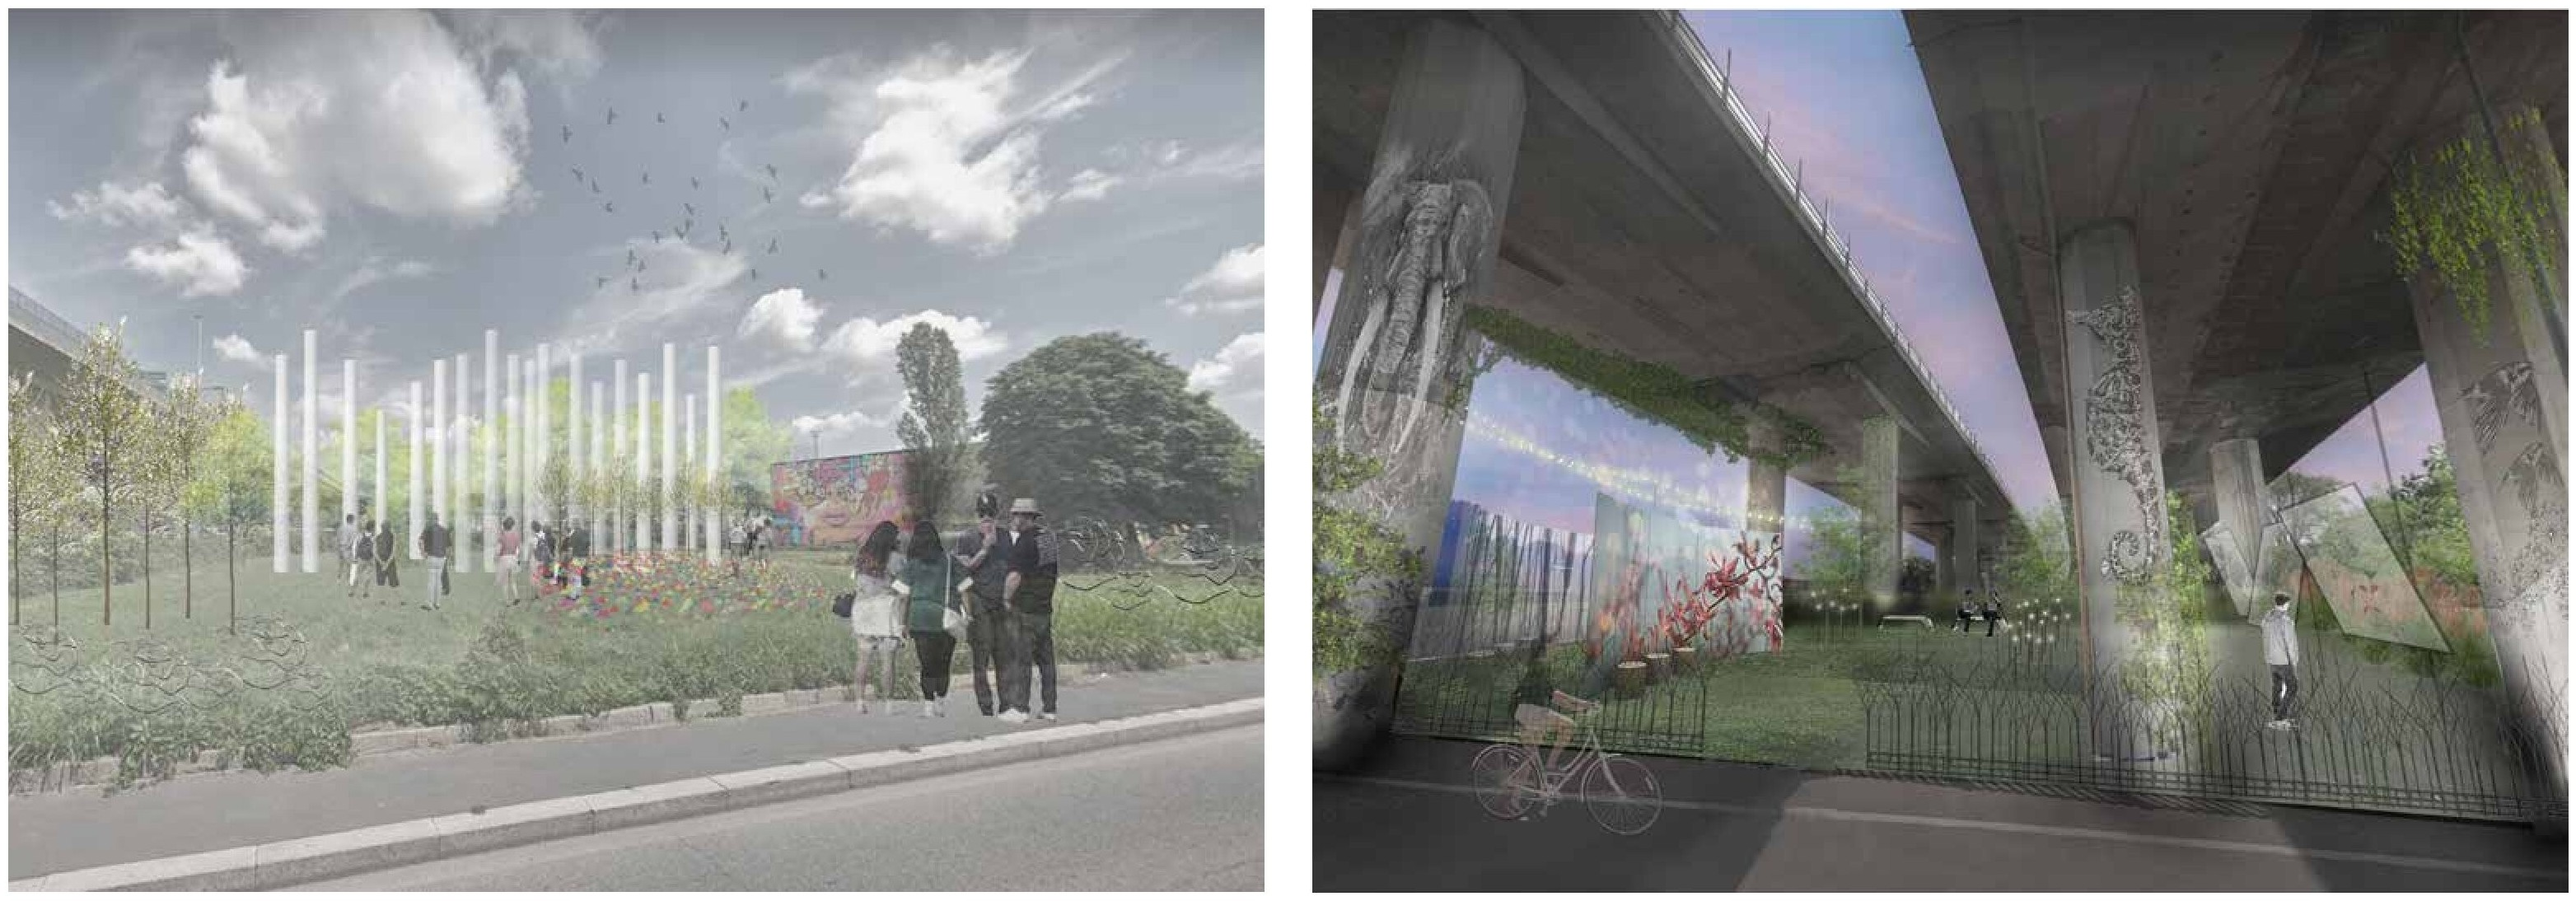
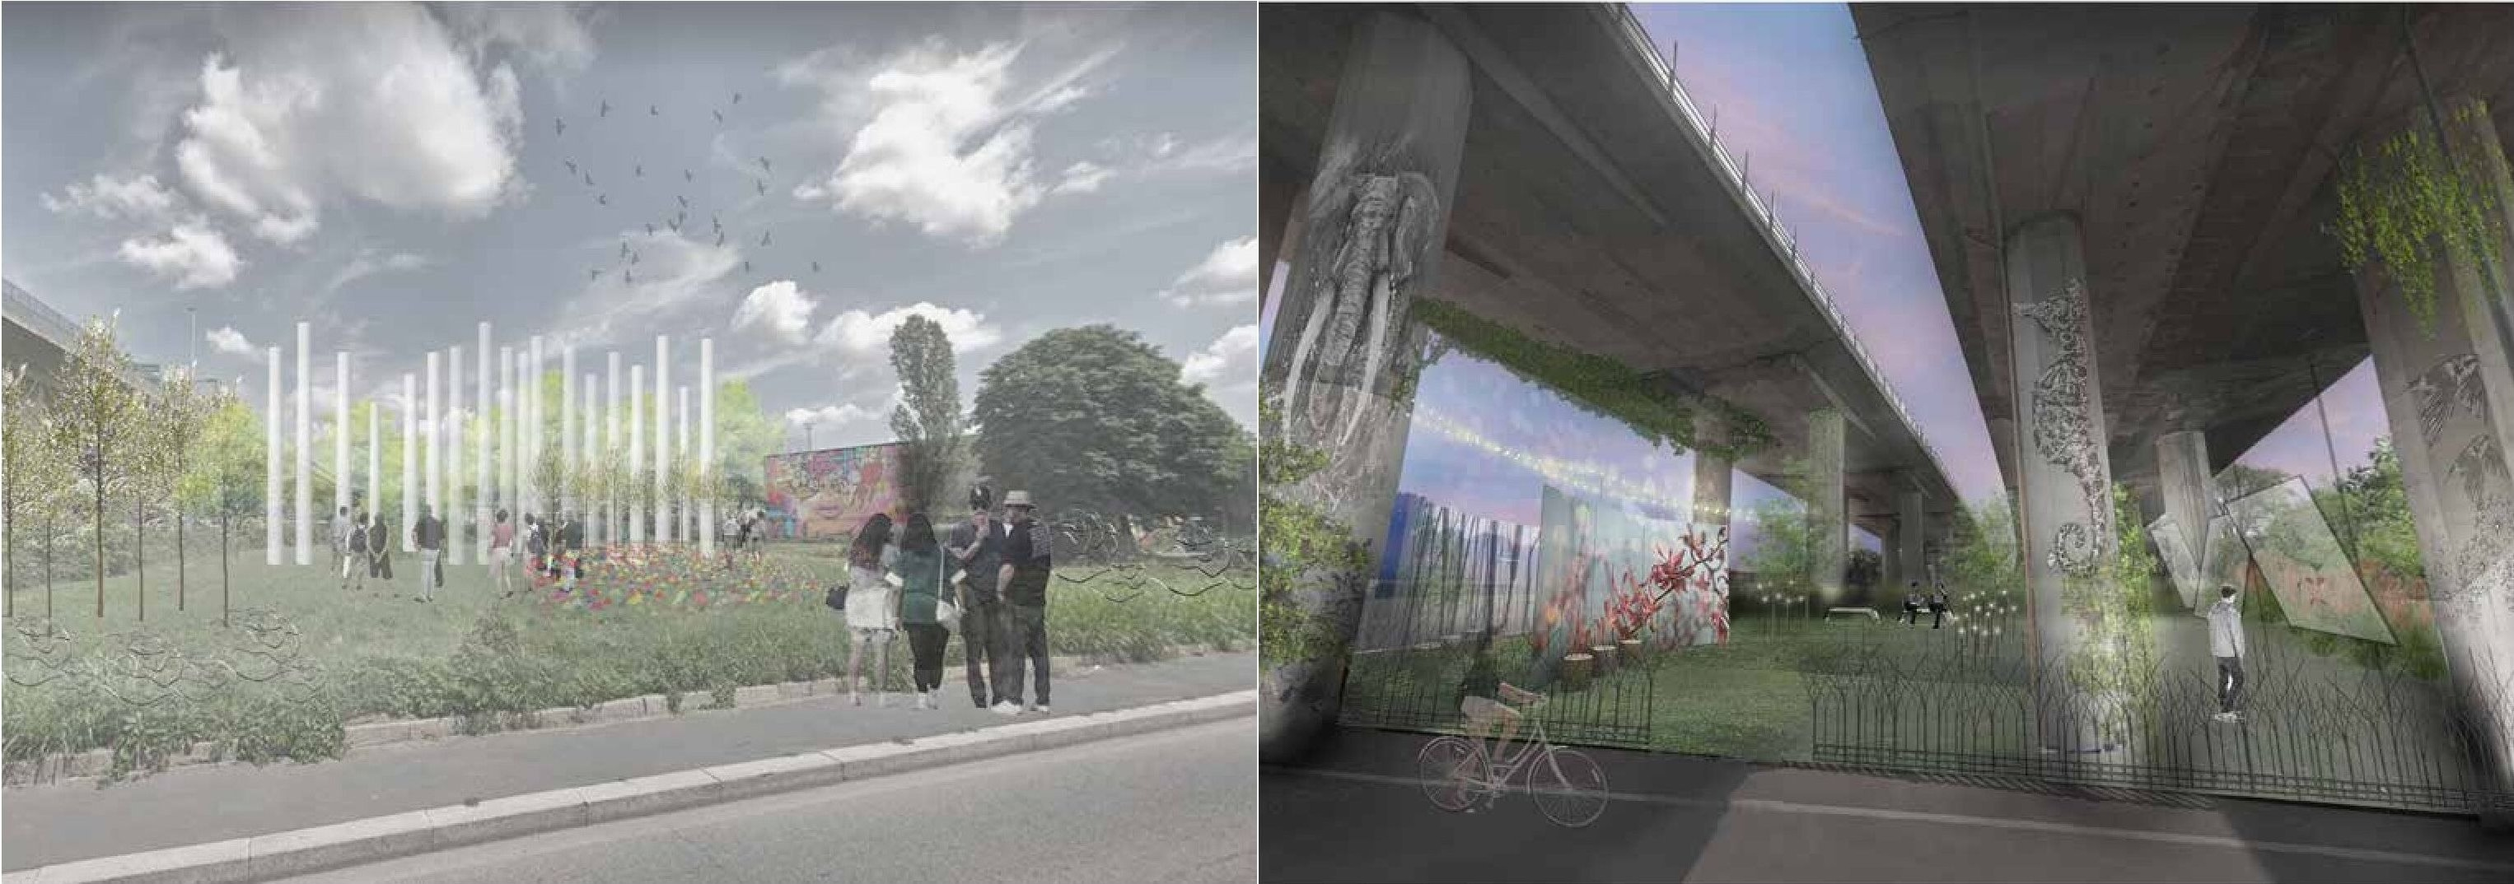
Remove Framing the Park image, merge paragraphs, close photo gaps
- Removed gallery-02-milan-green-ring.jpg ("Framing the Park") and its
  caption entirely.
- Merged the two framing paragraphs into one block (Grande Parco
  Forlanini... then This project turns...), tight line break instead
  of the full section gap between them.
- gallery-01-park-fabrics.jpg: the 6 photos were staggered at different
  heights, leaving white gaps between them. Rebuilt as a uniform-height
  (600px) strip, flush edge to edge.
- gallery-09-artcade.jpg and gallery-10-wall-street-gallery.jpg: removed
  the white frame and the gap between each image pair, now flush.

diff --git a/src/content/projects/a04-grande-parco-forlanini/index.md b/src/content/projects/a04-grande-parco-forlanini/index.md
@@ -26,16 +26,8 @@ sections:
       - src: ./gallery-01-park-fabrics.jpg
         caption: "The park's many fabrics — the highway viaduct, open agricultural fields, the cycling promenade, the disused gasometer, bordering office towers, and wooded groves — all as separate disconnected places rather than one park"
 
-  - text: "This project turns that fragmentation into opportunity: a park where low-profile artists, children, and everyday citizens make, exhibit, and encounter art in harmony with nature, generating a positive feedback loop with the Milan art scene."
+  - text: "Grande Parco Forlanini is a vast, fragmented green wedge at Milan's eastern edge — agricultural fields, the shelter of a highway, active sports grounds, the serene Romantic Park, abandoned structures, and the quiet neighbourhood of Novegro — none of which reads as a single park.\nThis project turns that fragmentation into opportunity: a park where low-profile artists, children, and everyday citizens make, exhibit, and encounter art in harmony with nature, generating a positive feedback loop with the Milan art scene."
     smallText: true
-
-  - text: "Grande Parco Forlanini is a vast, fragmented green wedge at Milan's eastern edge — agricultural fields, the shelter of a highway, active sports grounds, the serene Romantic Park, abandoned structures, and the quiet neighbourhood of Novegro — none of which reads as a single park."
-    smallText: true
-
-  # Concept — Milan's green ring and the art-and-nature feedback loop
-  - images:
-      - src: ./gallery-02-milan-green-ring.jpg
-        caption: "Milan's green ring: while Parco Sempione at the centre is the city's art-and-culture park, Grande Parco Forlanini can become its art-and-nature counterpart — art activities generating fame, funding, and collaboration that regenerate the park"
 
   # Concept — the three experiential rooms
   - images:
